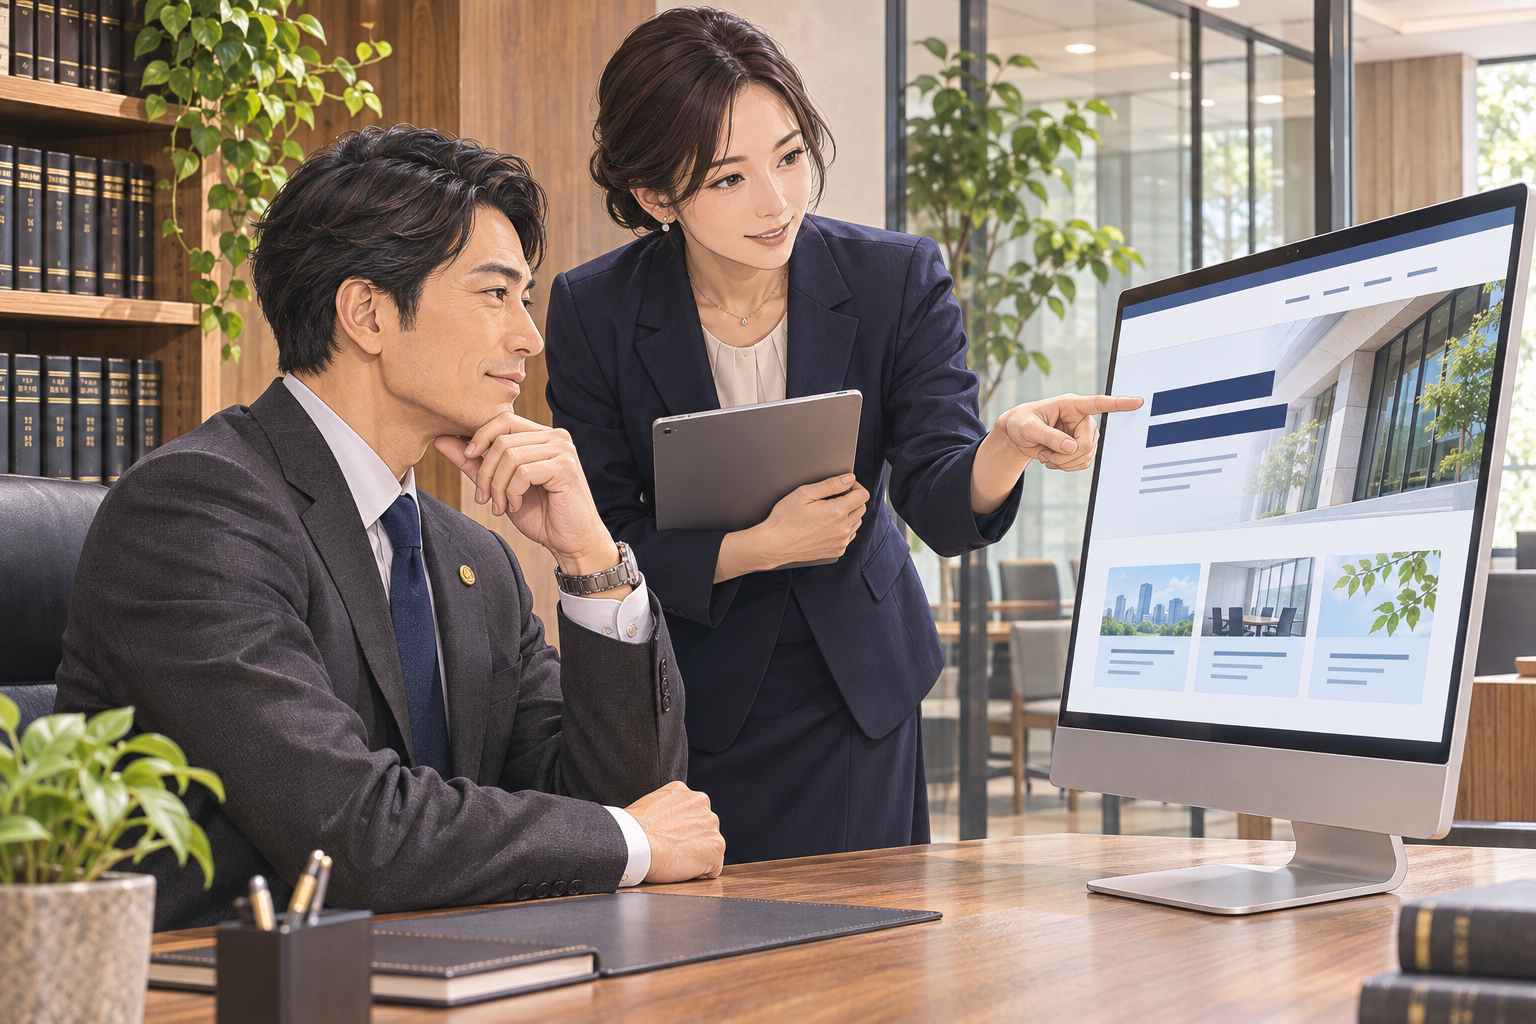
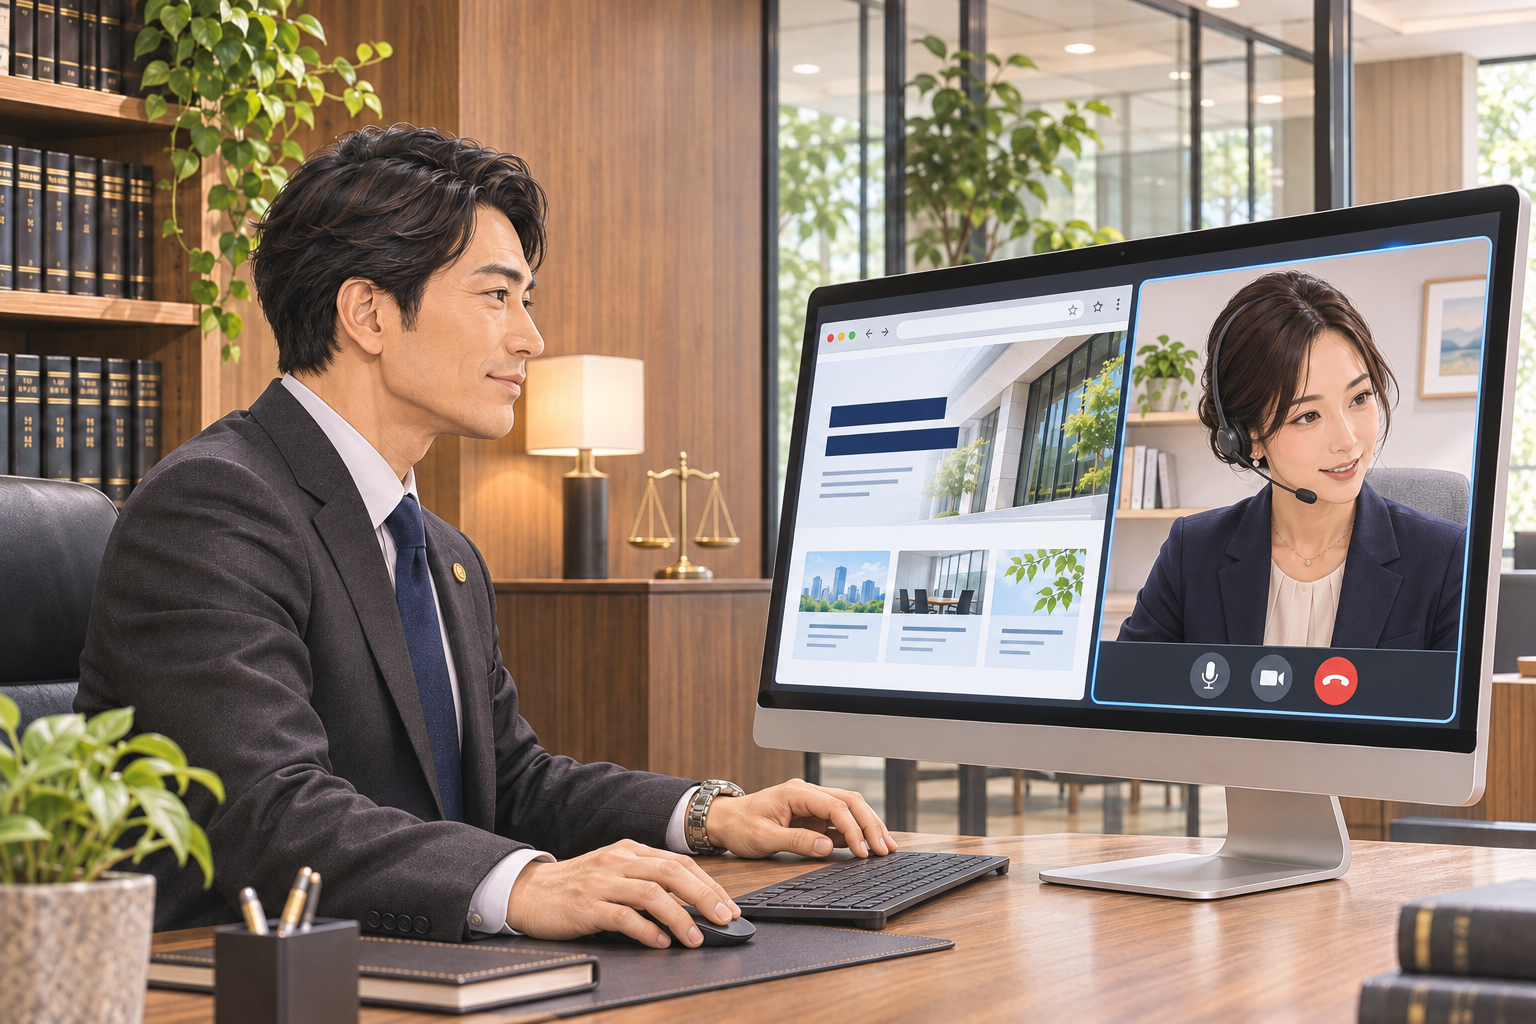
Show the law-office assistant providing support remotely

diff --git a/site/hp-management/law-firm.html b/site/hp-management/law-firm.html
@@ -1105,7 +1105,7 @@ dialog#plan-dialog .plan-option{min-height:56px;align-items:center}
 <li><svg aria-hidden="true" class="i" viewbox="0 0 24 24"><path d="m5 12 4 4L19 6"></path></svg>AIで取扱分野・記事の下書きを作成</li><li><svg aria-hidden="true" class="i" viewbox="0 0 24 24"><path d="m5 12 4 4L19 6"></path></svg>ご自身のChatGPTで文章・写真を編集</li><li><svg aria-hidden="true" class="i" viewbox="0 0 24 24"><path d="m5 12 4 4L19 6"></path></svg>Googleアナリティクスの導入・基本設定</li></ul><h4 class="plan-feature-title">HPを支える保守・公開環境</h4><ul><li><svg aria-hidden="true" class="i" viewbox="0 0 24 24"><path d="m5 12 4 4L19 6"></path></svg>セキュリティ修正・更新後の動作確認</li><li><svg aria-hidden="true" class="i" viewbox="0 0 24 24"><path d="m5 12 4 4L19 6"></path></svg>稼働監視・バックアップ・復元</li><li><svg aria-hidden="true" class="i" viewbox="0 0 24 24"><path d="m5 12 4 4L19 6"></path></svg>ストレージ（5GB）：HTML・CSS・JavaScript・画像などを保存</li><li><svg aria-hidden="true" class="i" viewbox="0 0 24 24"><path d="m5 12 4 4L19 6"></path></svg>Webサーバー・CDN：AWSを利用してサイトを高速配信</li><li><svg aria-hidden="true" class="i" viewbox="0 0 24 24"><path d="m5 12 4 4L19 6"></path></svg>公開・更新：ファイルのアップロードと更新内容の反映</li><li><svg aria-hidden="true" class="i" viewbox="0 0 24 24"><path d="m5 12 4 4L19 6"></path></svg>SSL・ドメイン管理</li></ul><button class="btn secondary" data-plan="basic" type="button">AIウェブ管理を選ぶ <svg aria-hidden="true" class="i" viewbox="0 0 24 24"><path d="M4 12h15M13 6l6 6-6 6"></path></svg></button></article>
 <article class="plan plan-plus"><div class="plan-top"><h3><span>AIウェブ管理</span>　<span>安心プラス</span></h3><span class="plan-code">GROWTH PLUS</span></div><p class="plan-desc">集客・情報発信のAI機能に、HPを守る攻撃対策を追加。</p><button aria-label="AIウェブ管理　安心プラス 月額29,800円の申し込み" class="price price-select" data-plan="plus" type="button"><strong>29,800</strong><span>円／月</span><small>税別</small></button><p class="tax">税込32,780円／月</p><p class="plan-license"><svg aria-hidden="true" class="i" viewbox="0 0 24 24"><path d="m5 12 4 4L19 6"></path></svg>SIMYライセンス込み・AIウェブ管理の全機能</p><h4 class="plan-feature-title">集客・情報発信に使えるAI機能</h4><ul><li><svg aria-hidden="true" class="i" viewbox="0 0 24 24"><path d="m5 12 4 4L19 6"></path></svg>AIウェブ管理のAI活用・情報発信・アクセス解析</li>
 </ul><h4 class="plan-feature-title">安心プラスで追加される攻撃対策</h4><ul><li><svg aria-hidden="true" class="i" viewbox="0 0 24 24"><path d="m5 12 4 4L19 6"></path></svg>WAFによる攻撃対策</li><li><svg aria-hidden="true" class="i" viewbox="0 0 24 24"><path d="m5 12 4 4L19 6"></path></svg>海外アクセス・不正なBotの制限</li><li><svg aria-hidden="true" class="i" viewbox="0 0 24 24"><path d="m5 12 4 4L19 6"></path></svg>大量アクセス・ログイン攻撃への対策</li><li><svg aria-hidden="true" class="i" viewbox="0 0 24 24"><path d="m5 12 4 4L19 6"></path></svg>CAPTCHA・IP別のアクセス頻度制限</li><li><svg aria-hidden="true" class="i" viewbox="0 0 24 24"><path d="m5 12 4 4L19 6"></path></svg>攻撃ログの確認・異常通知・一次対応</li></ul><div class="plan-recording"><p class="plan-desc"><strong>公開用の法律解説を、HPの記事に。</strong></p><p class="plan-desc">公開用に同意を得た一般的な解説から個人情報を除き、人が確認した要点をもとにAIで記事案を作成。先生の確認・承認後にHPへ反映する仕組みの導入・活用を相談できます。</p><p class="sp-note">録音・記事化の実施範囲・費用は別途ご相談ください。</p><a class="sp-text-button" href="#clinical-content">記事化の概要を見る →</a></div><button class="btn" data-plan="plus" type="button">安心プラスを選ぶ <svg aria-hidden="true" class="i" viewbox="0 0 24 24"><path d="M4 12h15M13 6l6 6-6 6"></path></svg></button></article>
-</div><div class="support"><figure class="support-scene"><img alt="弁護士と事務所の担当者がホームページの更新内容を確認するイラスト" decoding="async" height="1024" loading="eager" src="/hp-management/law-firm/assets/law-office-hero.png" width="1536"/></figure><div class="support-intro"><div><small>AI・HP運用サポート｜両プラン共通の追加オプション</small><h3>使い方や運用で困ったときに、<br/>担当者へ相談できます。</h3><p>AIでの集客・情報発信は、両プランに含まれています。追加サポートでは、AIの使い方やHP運用で困ったことを担当者に相談できます。</p><p>AIへの依頼の仕方や、事務所情報・記事・口コミ返信案の整え方を相談できます。Googleマップ・AI検索に向けた情報整備、文章・写真の調整も、担当者が支援します。</p></div></div><div class="support-price"><button aria-label="AI・HP運用サポート 月額49,800円の追加オプションを選ぶ" class="support-price-select" data-assistance="true" data-plan="current" type="button"><strong>＋49,800</strong><span>円／月・税別</span><small>税込＋54,780円／月</small></button><button class="support-apply" data-assistance="true" data-plan="current" type="button">AI・HP運用サポートを追加する →</button></div></div><p class="sp-note"><strong>ChatGPTのご契約・利用料金は別途必要です。SIMYの月額料金には含まれません。</strong> <a href="https://chatgpt.com/ja-JP/pricing/" rel="noopener noreferrer" style="text-decoration:underline;text-underline-offset:3px" target="_blank">ChatGPTのプラン・料金 ↗</a><br/>ChatGPT・Claude Codeは、ご自身で契約したアカウントに接続します。ドメインの新規取得・更新費用も別途です。</p><p class="sp-note">新しい修正版の公開から24時間以内に初動を開始します。適用完了の期限ではありません。保守・自動更新の対象と手順は契約時に合意します。</p></div></section>
+</div><div class="support"><figure class="support-scene"><img alt="法律事務所の弁護士が、別の場所で働くリモート秘書とビデオ通話し、ホームページの更新内容を確認するイラスト" decoding="async" height="1024" loading="eager" src="/hp-management/law-firm/assets/law-office-hero.png?v=remote-20261117" width="1536"/></figure><div class="support-intro"><div><small>AI・HP運用サポート｜両プラン共通の追加オプション</small><h3>使い方や運用で困ったときに、<br/>担当者へ相談できます。</h3><p>AIでの集客・情報発信は、両プランに含まれています。追加サポートでは、AIの使い方やHP運用で困ったことを担当者に相談できます。</p><p>AIへの依頼の仕方や、事務所情報・記事・口コミ返信案の整え方を相談できます。Googleマップ・AI検索に向けた情報整備、文章・写真の調整も、担当者が支援します。</p></div></div><div class="support-price"><button aria-label="AI・HP運用サポート 月額49,800円の追加オプションを選ぶ" class="support-price-select" data-assistance="true" data-plan="current" type="button"><strong>＋49,800</strong><span>円／月・税別</span><small>税込＋54,780円／月</small></button><button class="support-apply" data-assistance="true" data-plan="current" type="button">AI・HP運用サポートを追加する →</button></div></div><p class="sp-note"><strong>ChatGPTのご契約・利用料金は別途必要です。SIMYの月額料金には含まれません。</strong> <a href="https://chatgpt.com/ja-JP/pricing/" rel="noopener noreferrer" style="text-decoration:underline;text-underline-offset:3px" target="_blank">ChatGPTのプラン・料金 ↗</a><br/>ChatGPT・Claude Codeは、ご自身で契約したアカウントに接続します。ドメインの新規取得・更新費用も別途です。</p><p class="sp-note">新しい修正版の公開から24時間以内に初動を開始します。適用完了の期限ではありません。保守・自動更新の対象と手順は契約時に合意します。</p></div></section>
 <div class="sp-wrap law-portal-wrap"><p class="note" style="padding-block:20px"><a href="https://simy-website-diagnosis.tetsuo.chatgpt.site/clinic-portal" target="_top">ChatGPTでログインして事務所を管理する →</a>　保存済みの診断・記事・近隣サイトの監視はこちら。</p></div>
 <section class="sp-section" id="start"><div class="sp-wrap" id="migration"><div class="sp-heading"><p class="sp-kicker">移管の3ステップ</p><h2>URLはそのまま。<br/>管理はSIMYへ。</h2></div><div class="sp-steps"><article><span>STEP 01</span><h3>管理情報を引き継ぎます。</h3><p>今の管理先から、サイトデータとドメインの管理情報を受け取ります。</p><div>今の管理先 → SIMY</div></article><article><span>STEP 02</span><h3>同じ見た目で、古い仕組みを更新。</h3><p>引き継ぎ、または同じデザインで再制作。古い仕組みを見直し、公開前にご確認いただきます。</p><div>見慣れた見た目 ＋ 新しい仕組み</div></article><article><span>STEP 03</span><h3>公開して、ChatGPTに接続。</h3><p>予約・メールへの影響を確認して切り替え。ご自身のChatGPTで更新を始められます。</p><div>先生が確認 → 公開 → 日々の保守</div></article></div><p class="sp-note">無料再制作はHP管理の契約と対象範囲の合意が前提です。他社に権利があるデザイン・文章・写真は、許諾を確認するか、新しい内容に置き換えます。</p></div></section>
 <section class="sp-section hp-restored-info"><div class="sp-wrap"><section aria-labelledby="rights-title" class="hp-info-content" id="migration-rights">
